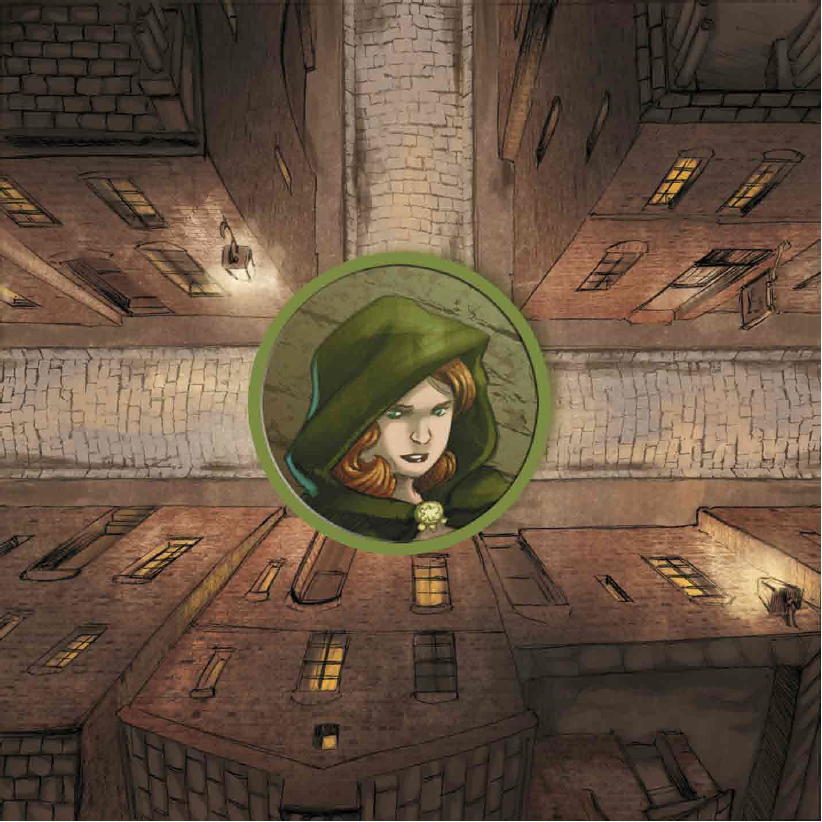
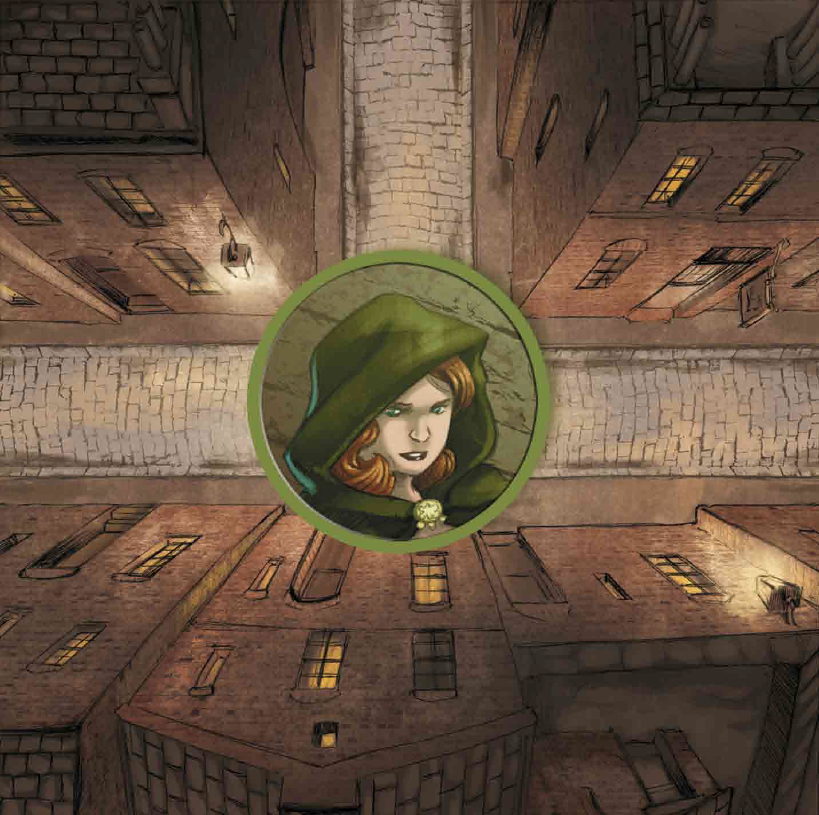
lighter images

diff --git a/ui/src/app/home/home.component.html b/ui/src/app/home/home.component.html
@@ -32,7 +32,7 @@
               (click)="playMoveDetective(getBonusDetective(lineIndex, colIndex))"/>
           </span>
 
-          <img *ngIf="cell.districts" src="assets/images/district/{{getDistrictImageName(cell.districts)}}.png"
+          <img *ngIf="cell.districts" src="assets/images/district/150px/{{getDistrictImageName(cell.districts)}}.png"
                class="district orientation-{{cell.districts.orientationAsString}}"
                [ngClass]="{'pointer' : isDistrictPointer()}"
                [class.orientation-EAST-force]="isRotating('EAST', lineIndex, colIndex)"
